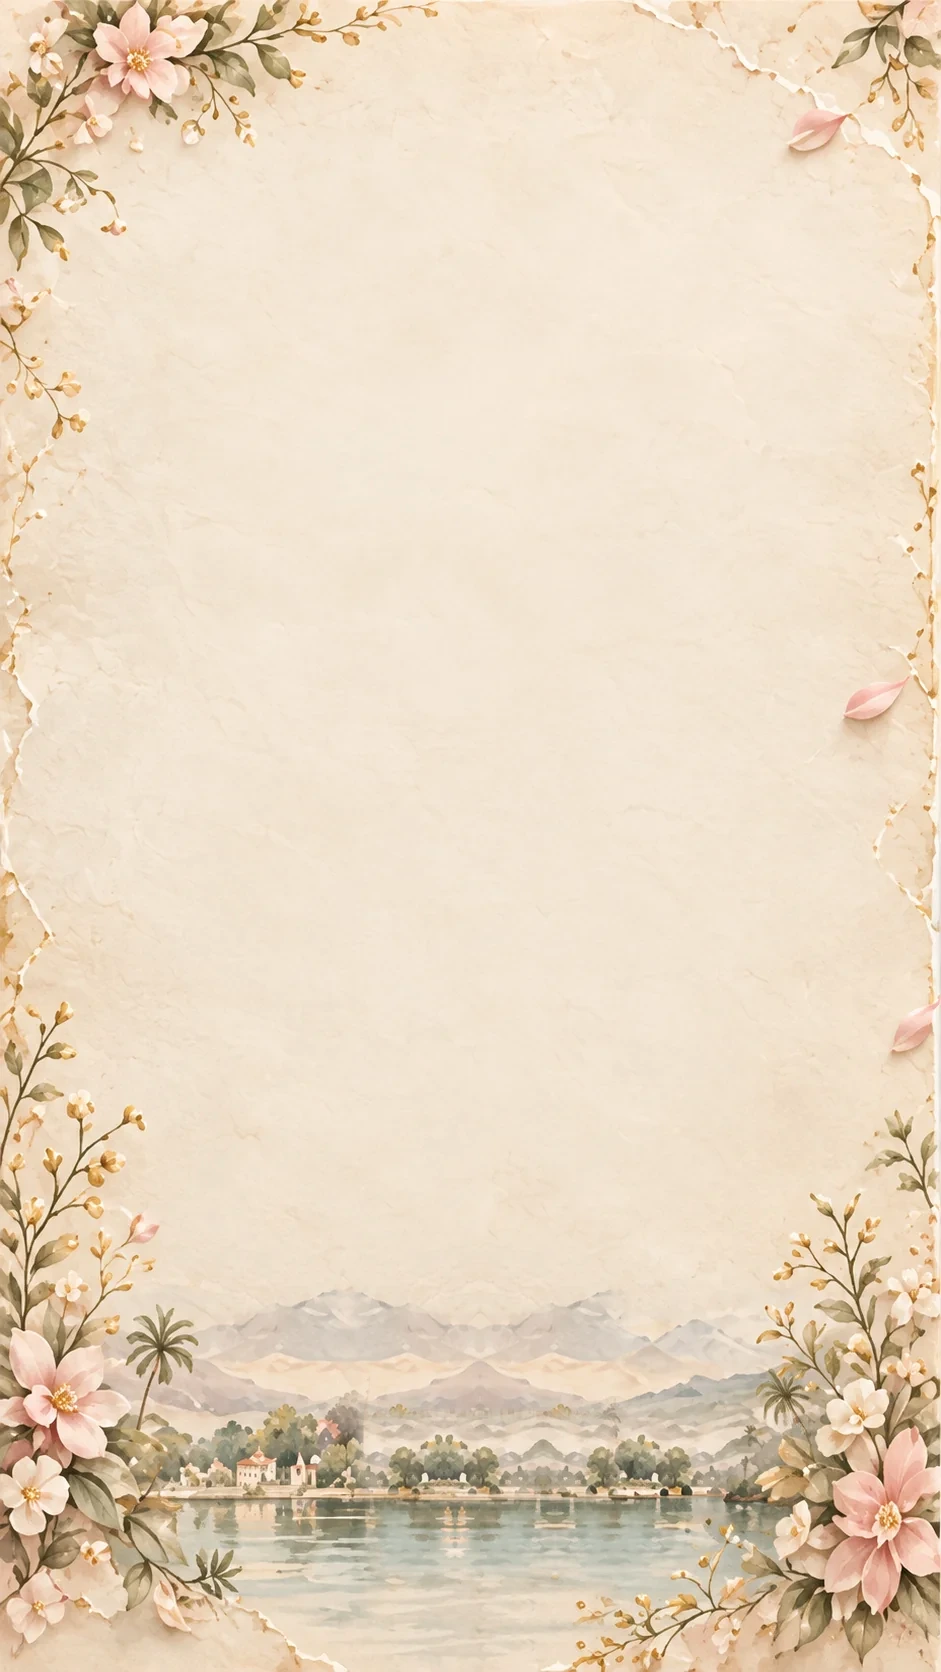
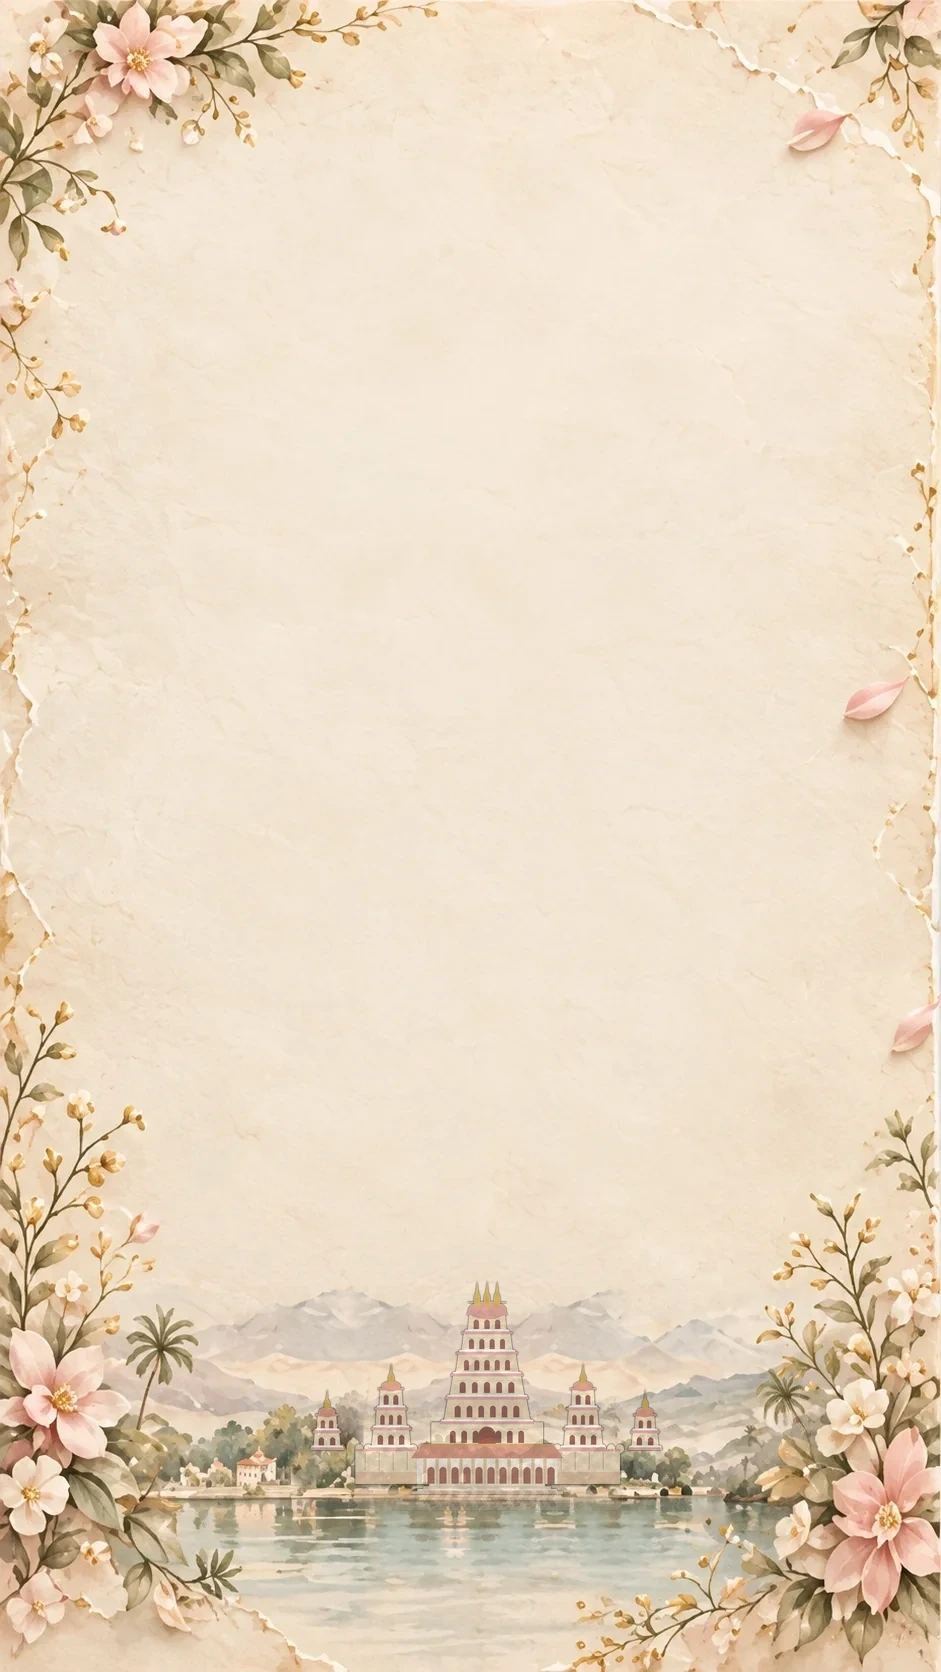
Add Hindu temple illustration to venue art; redesign photo frames

Changed region(s): [[0.3082, 0.7464, 0.7088, 0.9019]]

diff --git a/src/platform/m22434.js b/src/platform/m22434.js
@@ -153,6 +153,11 @@ let N = (a) => Math.round(100 * a) / 100,
 .aa-in .aa-leaf{animation:aa-leaf .7s cubic-bezier(.3,1.5,.5,1) var(--d,0s) both}
 @keyframes aa-rise{from{opacity:0;transform:translateY(16px);filter:blur(5px)}to{opacity:1;transform:none;filter:blur(0)}}
 @keyframes aa-wipe{from{opacity:1;clip-path:inset(-30% 100% -30% 0)}to{opacity:1;clip-path:inset(-30% -8% -30% 0)}}
+@keyframes aa-flt{0%,100%{transform:translateY(0)}50%{transform:translateY(calc(var(--u)*-.9))}}
+@keyframes aa-sweep{0%,55%{transform:translateX(-130%) skewX(-18deg)}100%{transform:translateX(330%) skewX(-18deg)}}
+.aa-flt{animation:aa-flt 7s ease-in-out infinite;animation-delay:var(--fd,0s)}
+.aa-shine{position:absolute;inset:0;overflow:hidden;pointer-events:none}
+.aa-shine::after{content:'';position:absolute;top:0;bottom:0;left:0;width:34%;background:linear-gradient(100deg,rgba(255,250,235,0),rgba(255,250,235,.5),rgba(255,250,235,0));animation:aa-sweep 7.5s ease-in-out infinite;animation-delay:var(--sd,2s)}
 @keyframes aa-draw{from{opacity:1;transform:scaleX(0)}to{opacity:1;transform:scaleX(1)}}
 @keyframes aa-pop{0%{opacity:0;transform:translateY(-26px) scale(.6)}60%{opacity:1;transform:translateY(3px) scale(1.06)}100%{opacity:1;transform:none}}
 @keyframes aa-char{from{opacity:0;transform:translateY(.55em) rotateX(75deg);filter:blur(3px)}to{opacity:1;transform:none;filter:blur(0)}}
@@ -1871,29 +1876,41 @@ function af({ delay: a }) {
     ],
   })
 }
-function PF({ src: a, alt: e, w: t, ratio: i, rot: r, delay: o, pos: l, style: c }) {
+function PF({ src: a, alt: e, w: t, ratio: i, rot: r, delay: o, pos: l, kind: k, style: c }) {
+  let rad = k === 'arch' ? `${w(t / 2 + 2.2)} ${w(t / 2 + 2.2)} ${w(1.2)} ${w(1.2)}` : w(3.2),
+    rad2 = k === 'arch' ? `${w(t / 2)} ${w(t / 2)} ${w(0.5)} ${w(0.5)}` : w(2.2)
   return (0, n.jsx)('div', {
     className: 'aa-r',
-    style: {
-      ...$(o),
-      width: w(t),
-      padding: w(1.6),
-      background: '#fbf6ec',
-      border: '1px solid rgba(176,141,87,.5)',
-      boxShadow: '0 10px 26px rgba(90,64,40,.24), 0 1px 3px rgba(90,64,40,.18)',
-      transform: `rotate(${r}deg)`,
-      boxSizing: 'content-box',
-      ...c,
-    },
-    children: (0, n.jsx)('div', {
-      style: { width: '100%', paddingTop: `${100 * i}%`, position: 'relative', overflow: 'hidden', background: '#e9dfcf' },
-      children: (0, n.jsx)('img', {
-        src: a,
-        alt: e,
-        draggable: !1,
-        loading: 'lazy',
-        style: { position: 'absolute', inset: 0, width: '100%', height: '100%', objectFit: 'cover', objectPosition: l },
-      }),
+    style: { ...$(o), transform: `rotate(${r}deg)`, ...c },
+    children: (0, n.jsxs)('div', {
+      className: 'aa-flt',
+      style: {
+        '--fd': `${o}s`,
+        '--sd': `${o + 1.5}s`,
+        position: 'relative',
+        width: w(t + 4.6),
+        padding: w(0.9),
+        boxSizing: 'border-box',
+        background: 'linear-gradient(135deg,#8d6b35 0%,#e2c98e 24%,#b8935a 48%,#f0dfae 72%,#9a773c 100%)',
+        borderRadius: rad,
+        boxShadow: '0 14px 30px rgba(90,64,40,.30), 0 2px 5px rgba(90,64,40,.2)',
+      },
+      children: [
+        (0, n.jsx)('div', {
+          style: { background: '#fbf6ec', padding: w(1.5), borderRadius: rad2, boxShadow: 'inset 0 0 0 1px rgba(176,141,87,.5)' },
+          children: (0, n.jsx)('div', {
+            style: { position: 'relative', width: '100%', paddingTop: `${100 * i}%`, overflow: 'hidden', background: '#e9dfcf', borderRadius: k === 'arch' ? `${w(t / 2 - 1)} ${w(t / 2 - 1)} ${w(0.4)} ${w(0.4)}` : w(1.4) },
+            children: (0, n.jsx)('img', {
+              src: a,
+              alt: e,
+              draggable: !1,
+              loading: 'lazy',
+              style: { position: 'absolute', inset: 0, width: '100%', height: '100%', objectFit: 'cover', objectPosition: l },
+            }),
+          }),
+        }),
+        (0, n.jsx)('div', { className: 'aa-shine', style: { borderRadius: rad }, 'aria-hidden': !0 }),
+      ],
     }),
   })
 }
@@ -2131,8 +2148,8 @@ export default function () {
                 children: [
                   (0, n.jsx)(B, { size: 3, track: 0.5, color: x, delay: 0.1, children: 'Our Moments' }),
                   (0, n.jsx)(G, { w: 14, delay: 0.4, gap: 2.2 }),
-                  (0, n.jsx)(PF, { src: p.couple, alt: 'Dr. Vandana and Dr. Sharan', w: 44, ratio: 1.5, rot: -3, delay: 0.7, pos: '50% 30%', style: { alignSelf: 'flex-start', marginLeft: w(6) } }),
-                  (0, n.jsx)(PF, { src: p.kids, alt: 'Little Vandana and Sharan in traditional wear', w: 44, ratio: 1.1, rot: 2.6, delay: 1.5, pos: '50% 25%', style: { alignSelf: 'flex-end', marginRight: w(6), marginTop: w(-5) } }),
+                  (0, n.jsx)(PF, { src: p.couple, alt: 'Dr. Vandana and Dr. Sharan', kind: 'arch', w: 40, ratio: 1.5, rot: -2, delay: 0.7, pos: '50% 38%', style: { alignSelf: 'flex-start', marginLeft: w(6) } }),
+                  (0, n.jsx)(PF, { src: p.kids, alt: 'Little Vandana and Sharan in traditional wear', kind: 'round', w: 34, ratio: 1.1, rot: 2.4, delay: 1.5, pos: '50% 22%', style: { alignSelf: 'flex-end', marginRight: w(5), marginTop: w(-9) } }),
                   (0, n.jsx)(X, { size: 8, delay: 2.4, style: { marginTop: w(3) }, children: 'Made for each other' }),
                 ],
               }),
